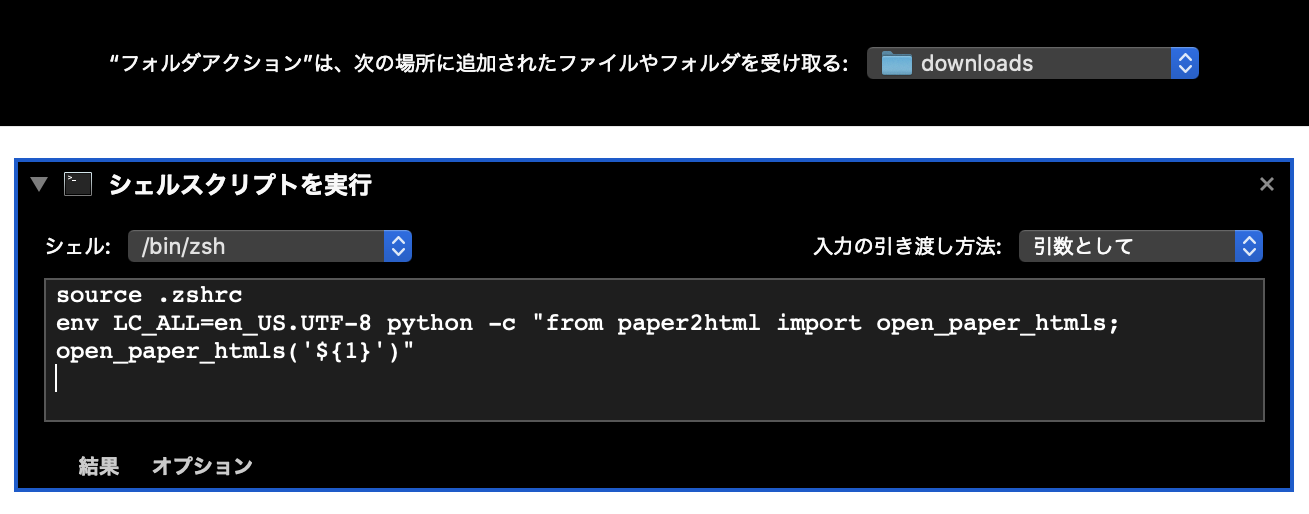
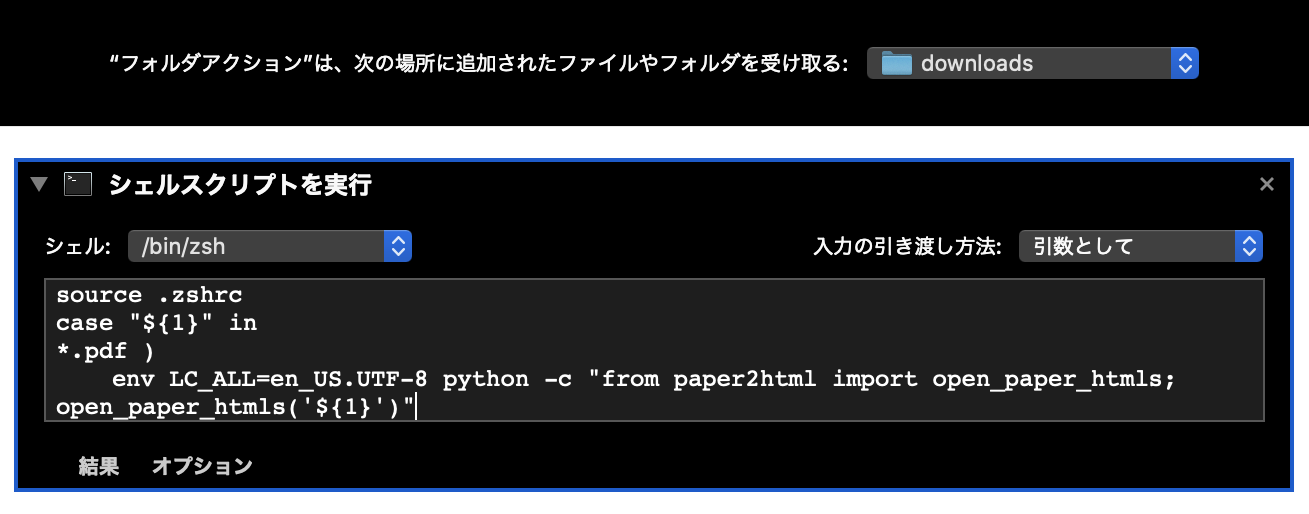
relpath of html fig & pdf filter for automator

Changed region(s): [[0.0306, 0.5914, 0.8862, 0.8093]]

diff --git a/paper2html/paper2html.py b/paper2html/paper2html.py
@@ -9,26 +9,42 @@ from paper2html.paper import PaperPage, Paper
 from paper2html.paper_miner import read_by_extended_pdfminer
 
 
-def init_working_dir(base_dir=None):
-    if not base_dir:
-        base_dir = pjoin(os.environ['HOME'], 'paper2html')
-    fixed_dir = pjoin(base_dir, 'fixed_pdf')
-    output_dir = pjoin(base_dir, 'output')
-    image_dir = pjoin(base_dir, 'original_images')
-    crop_dir = pjoin(base_dir, 'crops')
-    layout_dir = pjoin(base_dir, 'layout')
+def _get_unique_dirname(dirname):
+    i = 1
+    if not os.path.exists(dirname):
+        return dirname
+    dirname = dirname + '-0'
+    while os.path.exists(dirname):
+        dirname = dirname[:-len(dirname.split('-')[-1])] + str(i)
+        i += 1
+    return dirname
+
+
+def init_working_dir(working_dir, pdf_filename):
+    base_dir, pdf_name = os.path.split(pdf_filename)
+    pdf_name, _ = os.path.splitext(pdf_name)
+    if not working_dir:
+        working_dir = base_dir
+
+    output_dir = _get_unique_dirname(pjoin(working_dir, pdf_name))
+    resource_dir = pjoin(output_dir, 'resources')
+    temp_dir = pjoin(output_dir, 'temp')
+
+    crop_dir = pjoin(resource_dir, 'crops')
+    fixed_dir = pjoin(temp_dir, 'fixed_pdf')
+    image_dir = pjoin(temp_dir, 'original_images')
+    layout_dir = pjoin(temp_dir, 'layout')
+
     Paper.output_dir = output_dir
+    Paper.resource_dir = resource_dir
     Paper.layout_dir = layout_dir
     PaperPage.image_dir = image_dir
     PaperPage.crop_dir = crop_dir
 
-    if not os.path.exists(base_dir):
-        os.mkdir(base_dir)
-    for dir_name in (output_dir, image_dir, crop_dir, layout_dir, fixed_dir):
-        if os.path.exists(dir_name):
-            rmtree(dir_name)
+    for dir_name in (output_dir, resource_dir, temp_dir,
+                     crop_dir, fixed_dir, image_dir, layout_dir):
         os.mkdir(dir_name)
-    return fixed_dir, image_dir
+    return fixed_dir, image_dir, temp_dir
 
 
 def open_by_browser(filename, browser_path=None):
@@ -41,26 +57,45 @@ def open_by_browser(filename, browser_path=None):
         webbrowser.open(url)
 
 
-def clean_pdf(pdf_filename, output_dir):
+def clean_pdf(pdf_filename, working_dir):
+    """
+    Fix broken pdf.
+    @param pdf_filename:
+        The target pdf file.
+    @param working_dir:
+        The directory for the fixed pdf.
+    @return:
+        The fixed pdf file.
+    """
     import subprocess
     _, base_name = os.path.split(pdf_filename)
-    new_pdf_filename = pjoin(output_dir, base_name)
+    new_pdf_filename = pjoin(working_dir, base_name)
     subprocess.run(['mutool', 'clean', pdf_filename, new_pdf_filename])
     return new_pdf_filename
 
 
-def open_paper_htmls(pdf_filename, working_dir=None, browser_path=None):
+def open_paper_htmls(pdf_filename: str, working_dir: str = None, browser_path: str = None, verbose: bool = False):
     """
-    処理の流れ：
-        破損したpdfを修復
-        pdf2imageでpdfの画像取得
-        pdfminerに解析結果とともに返してもらう
-        解析結果であるPaperのshow_layoutsとget_htmlsを呼び出して結果を得る
+    Open generated paper htmls from a pdf file with a browser.
+    @param pdf_filename:
+        The target pdf file.
+    @param working_dir:
+        The working directory contains output directory and html files.
+        Default is the same directory as pdf_filename.
+    @param browser_path:
+        The browser to open the file with.
+    @param verbose:
+        Whether to output files which indicate the visual recognition process.
     """
-    fixed_dir, image_dir = init_working_dir(working_dir)
+    _, ext = os.path.splitext(pdf_filename)
+    if ext != '.pdf':
+        raise ValueError('Only pdf files are supported')
+    fixed_dir, image_dir, temp_dir = init_working_dir(working_dir, pdf_filename)
     pdf_filename = clean_pdf(pdf_filename, fixed_dir)
     pdf2image.convert_from_path(pdf_filename, output_folder=image_dir, output_file='pdf', paths_only=True)
-    urls = read_by_extended_pdfminer(pdf_filename)
+    urls = read_by_extended_pdfminer(pdf_filename, verbose)
+    if not verbose:
+        rmtree(temp_dir)
 
     for url in urls:
         open_by_browser(url, browser_path)

diff --git a/paper2html/paper.py b/paper2html/paper.py
@@ -511,6 +511,7 @@ class Paper:
     pdfminerの解析結果を表すクラス．
     """
     output_dir = None
+    resource_dir = None
     layout_dir = None
     n_div_paragraph = 200
 
@@ -547,30 +548,12 @@ class Paper:
         eng_txt = format4gt2("".join([item.text for item in paragraph]))
         return eng_txt
 
-    def get_text(self):
-        if not self.arranged_paragraphs:
-            self._arrange_paragraphs()
-        result = "".join([self._paragraph2txt(paragraph) for paragraph in self.arranged_paragraphs])
-        return result
-
-    def _paragraph2markdown(self, paragraph):
-        if len(paragraph) == 0:
-            return ""
-        if paragraph[0].type == PaperItemType.SectionHeader:
-            return "## " + self._paragraph2txt(paragraph)
-        elif paragraph[0].type == PaperItemType.Figure:
-            return "![Figure](file://%s)\n" % os.path.abspath(paragraph[0].url)
-        else:
-            return "\n".join([
-                                 "![Figure](file://%s)\n" % os.path.abspath(item.url) for item in paragraph
-                             ] + [self._paragraph2txt(paragraph)])
-
     def _paragraph2img_line(self, paragraph, i):
-        img_template = '<p id="img{}"><img alt="Figure" src="file://{}" /></p>\n'
+        img_template = '<p id="img{}"><img alt="Figure" src="./{}" /></p>\n'
         if paragraph[0].type == PaperItemType.Figure:
-            return img_template.format(i, os.path.abspath(paragraph[0].url))
+            return img_template.format(i, os.path.relpath(paragraph[0].url, self.output_dir))
         else:
-            return "\n".join([img_template.format(i, os.path.abspath(item.url)) for item in paragraph])
+            return "\n".join([img_template.format(i, os.path.relpath(item.url, self.output_dir)) for item in paragraph])
 
     def _paragraph2txt_line(self, paragraph, i):
         txt_template = '<p id="txt{}">{}</p>\n'
@@ -663,7 +646,8 @@ class Paper:
             padding: 50% 1.5em 50%;
         }
         '''
-        css_filename = pjoin(self.output_dir, 'stylesheet.css')
+        css_filename = pjoin(self.resource_dir, 'stylesheet.css')
+        css_rel_path = pjoin('resources', 'stylesheet.css')
         with open(css_filename, 'w') as f:
             f.write(css_content)
         html_files = []
@@ -673,7 +657,7 @@ class Paper:
                 <html lang="en">
                   <head>
                     <meta http-equiv="Content-type" content="text/html;charset=utf-8" />
-                    <link href="stylesheet.css" rel="stylesheet" type="text/css" />
+                    <link href="{}" rel="stylesheet" type="text/css" />
                     <title>
                       {}
                     </title>
@@ -702,7 +686,7 @@ class Paper:
             output_filename = pdf_name + '_%d.html' % i
             output_path = pjoin(self.output_dir, output_filename)
             with open(output_path, 'w') as f:
-                f.write(top_html_template.format(pdf_name, img_c, txt_c, javascript))
+                f.write(top_html_template.format(css_rel_path, pdf_name, img_c, txt_c, javascript))
             html_files.append(output_path)
         return html_files
 

diff --git a/paper2html/paper_miner.py b/paper2html/paper_miner.py
@@ -9,12 +9,10 @@ from pdfminer.pdfinterp import PDFResourceManager, PDFPageInterpreter
 from pdfminer.layout import LAParams
 from .paper import Paper, PaperItemType, PaperItem, PaperPage, unify_bboxes
 
-DEBUG_MODE = False
 
-
-def read_by_extended_pdfminer(pdf_filename):
+def read_by_extended_pdfminer(pdf_filename, verbose=False):
     paper = PaperReader(pdf_filename).read()
-    if DEBUG_MODE:
+    if verbose:
         paper.show_layouts()
 
     _, pdf_name = os.path.split(pdf_filename)

diff --git a/paper2html/__init__.py b/paper2html/__init__.py
@@ -2,6 +2,6 @@ from .paper2html import open_paper_htmls
 from .clean_downloads import clean_downloads
 
 name = "paper2html"
-__version__ = '0.1.1'
+__version__ = '0.1.2'
 __all__ = ['open_paper_htmls', 'clean_downloads']
 
